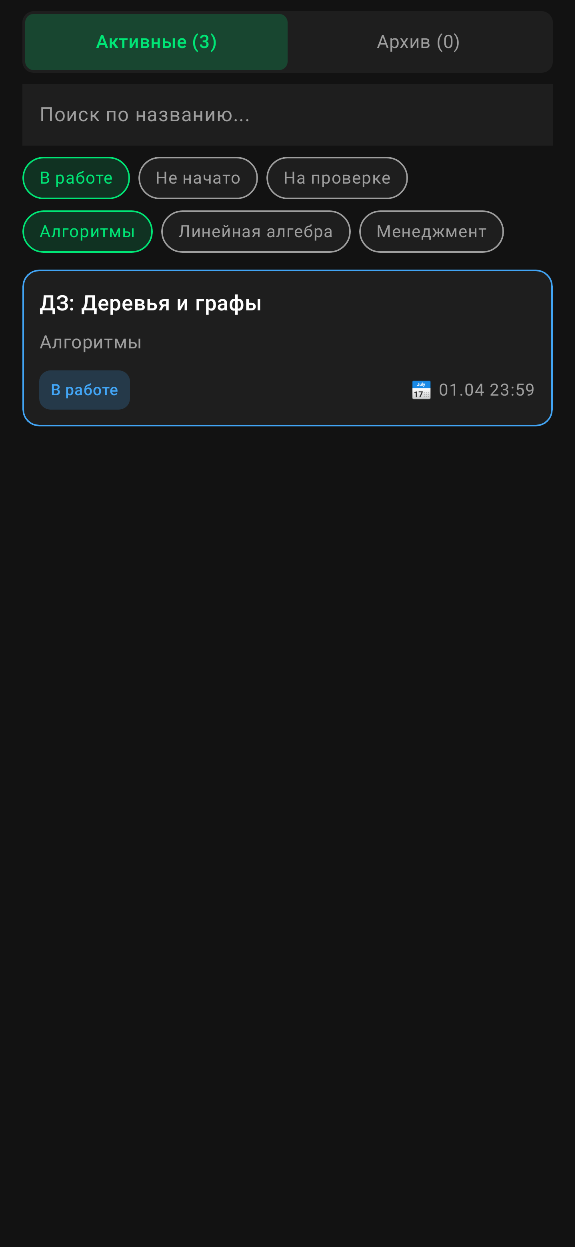
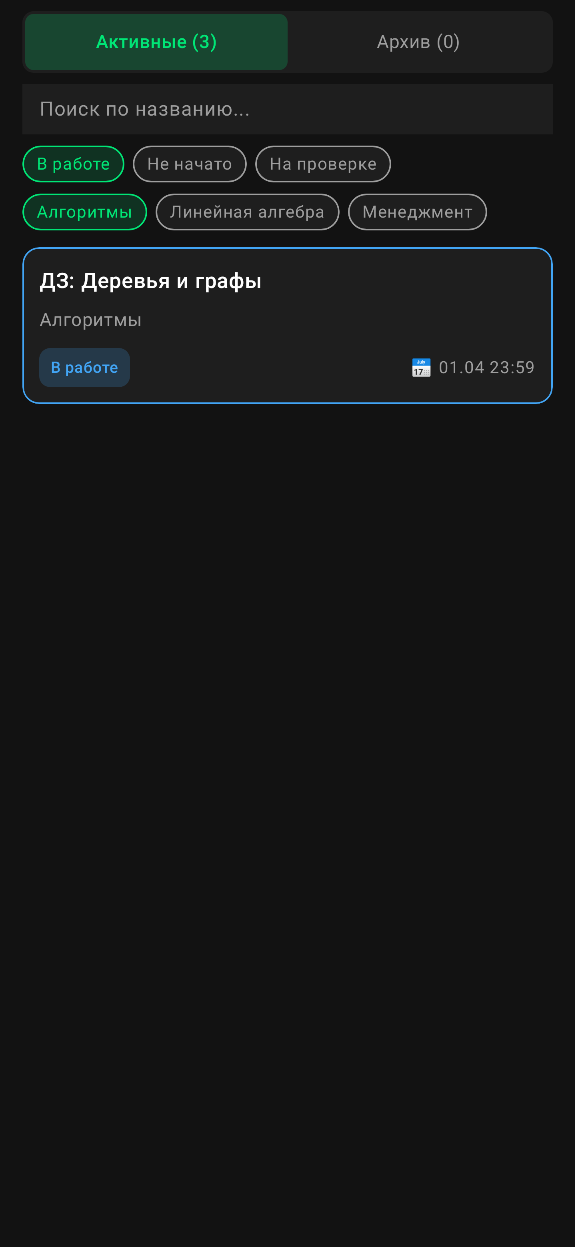
Fix review feedback: remove heightIn, type-safe selectedFirst, tweak chip padding
- Remove unnecessary heightIn(min=40.dp) from search field
- Split selectedFirst into type-safe String overload + generic with required keySelector
- Reduce search field vertical padding (10dp → 6dp)
- Reduce filter chip padding (horizontal 12→10dp, vertical 3→1dp)

Changed region(s): [[0.0296, 0.0609, 0.887, 0.3352], [0.7096, 0.2743, 0.9757, 0.3352]]

diff --git a/shared/src/commonMain/kotlin/io/github/kroune/cumobile/presentation/tasks/TasksScreen.kt b/shared/src/commonMain/kotlin/io/github/kroune/cumobile/presentation/tasks/TasksScreen.kt
@@ -11,7 +11,6 @@ import androidx.compose.foundation.layout.Spacer
 import androidx.compose.foundation.layout.fillMaxSize
 import androidx.compose.foundation.layout.fillMaxWidth
 import androidx.compose.foundation.layout.height
-import androidx.compose.foundation.layout.heightIn
 import androidx.compose.foundation.layout.padding
 import androidx.compose.foundation.lazy.LazyColumn
 import androidx.compose.foundation.lazy.LazyRow
@@ -191,9 +190,8 @@ private fun FiltersRow(
             cursorBrush = SolidColor(AppTheme.colors.accent),
             modifier = Modifier
                 .fillMaxWidth()
-                .heightIn(min = 40.dp)
                 .background(AppTheme.colors.surface)
-                .padding(horizontal = 12.dp, vertical = 10.dp),
+                .padding(horizontal = 12.dp, vertical = 6.dp),
             decorationBox = { innerTextField ->
                 if (state.searchQuery.isEmpty()) {
                     Text(
@@ -292,14 +290,18 @@ private fun CourseFilterChips(
     }
 }
 
-/**
- * Moves the selected item to the front, keeping relative order of the rest.
- * For simple lists where the item itself is the key (e.g., status strings).
- */
+/** Moves the selected string to the front, keeping relative order of the rest. */
+private fun selectedFirst(
+    items: List<String>,
+    selectedKey: String?,
+): List<String> =
+    selectedFirst(items, selectedKey) { it }
+
+/** Moves the selected item to the front, keeping relative order of the rest. */
 private fun <T> selectedFirst(
     items: List<T>,
     selectedKey: String?,
-    keySelector: (T) -> String = { it as String },
+    keySelector: (T) -> String,
 ): List<T> {
     if (selectedKey == null) return items
     val selected = items.find { keySelector(it) == selectedKey } ?: return items
@@ -331,7 +333,7 @@ private fun FilterChip(
                     AppTheme.colors.surface
                 },
             ).clickable(onClick = onClick)
-            .padding(horizontal = 12.dp, vertical = 3.dp),
+            .padding(horizontal = 10.dp, vertical = 1.dp),
     ) {
         Text(
             text = label,
